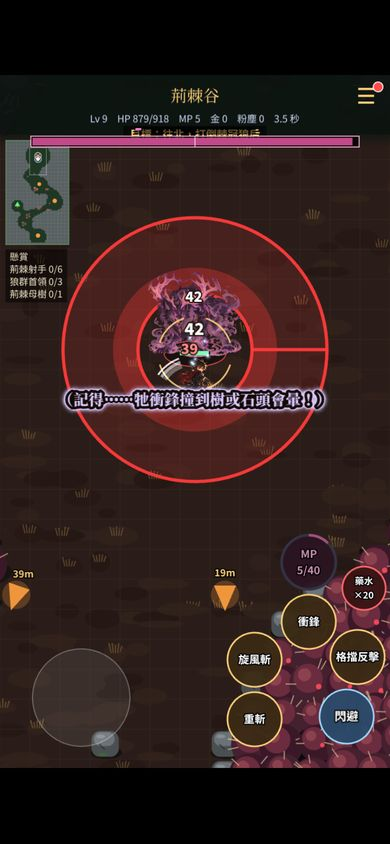
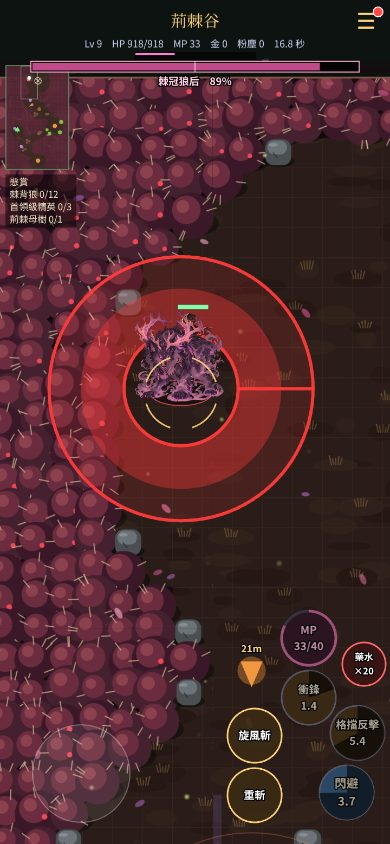
README 截圖 36 換新介面（狼后根系環預告、Boss 名稱＋％）；D-183 [skip ci]
Claude-Session: https://claude.ai/code/session_01DgXGTv2N1RonmFD1kzmDLM

diff --git a/docs/DECISIONS.md b/docs/DECISIONS.md
@@ -2,6 +2,13 @@
 
 > 格式：編號、日期（台北）、決策、理由、替代方案。新的放最上面。
 
+## D-183 2026-10-28 第一眼第十八段：說明框走進下一區就收、記憶卡在時地區名稱延後、Boss 血條加名稱與％、懸賞「別圖」
+- **開場說明框**：荊棘谷新存檔（長弓）8 秒就進毒沼，說明框、地區名稱、地區說明、武器教學四組字同時擠在上半部。走進第二個地區、而且說明框已經出現 ≥ 3 秒 → 收起（`dismissHint`，會記成看過）。開場那一區不算；不到 3 秒照舊把地區名稱往下挪 100。霧語森林新玩家（4 秒就離開南營地）說明框照常留 6 秒（第 52 輪 Bot 確認）。
+- **記憶卡／回禮卡（`topCard`）還在時，地區名稱先不出**：星隕高原開場「危險：藍白色的圈…」被記憶卡整個蓋住。`zoneBanner` 在卡片還 active 時直接 return（不記 zoneName），卡片淡掉後下一幀就出。
+- **懸賞「（別張地圖）」→「（別圖）」**：在星隕高原那行伸到記憶卡（左緣約 160）底下。
+- **Boss 大血條下面加名稱＋剩餘％**（`bossTxt`，y 136、19px；暴怒版寫「暴怒的…」；第二階段字變橘紅）：以前血條沒有名字也沒有數字。畫面外箭頭把它當成 `goal` 一樣避開。面板開著時藏起。
+- README 截圖換 40、42、43（霜旋：截圖時把 `frostFx` 的 born 每幀拉回 350ms）、48（燼紅裂谷噴口：把 2 隻燼鬃狼釘在噴口上、`commands=()=>[]`、等「燒死了」），新增 86（狼后撞牆暈眩，補上空格）。
+
 ## D-182 2026-10-28 第一眼第十七段：升級小字移到腳下、數字錯開、深夜再暗一點、暫停選單金幣、操作設定按鈕
 - **升級**（D-181 續）：360×640 時主角在畫面 y≈580，D-181 的「HP・攻擊＋技能點」小字（y≈530）剛好蓋住主角與頭上的傷害數字。改成固定在主角腳下 `sy(p.y)+130`（夾在 560～GAME_HEIGHT−520，x 偏 1px＝不排隊）；標題仍是 y 430 置中大字。
 - **傷害數字錯開**（`fx/numberSlot.ts`）：同一刻並排打中兩隻怪（見切射擊打兩朵菇），兩個「105」黏成「105105」。新數字若和 350ms 內跳出的數字框重疊就往上疊一格（最多 3 層）；場景重啟時間倒退會清空。測試 `tests/number-slot.test.ts`。
